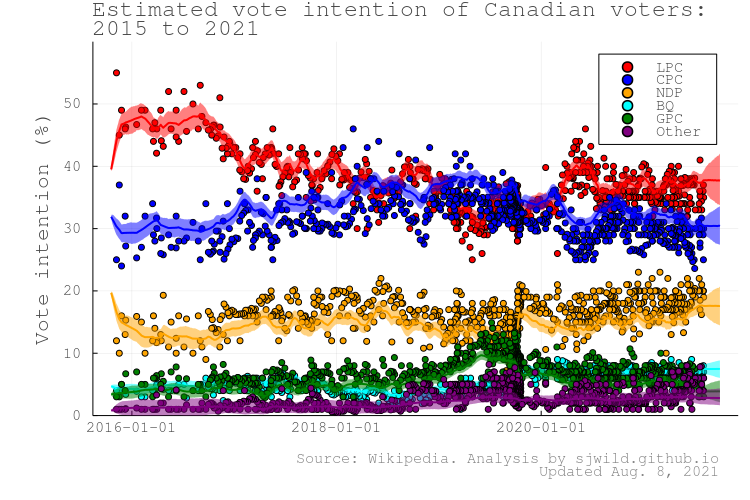
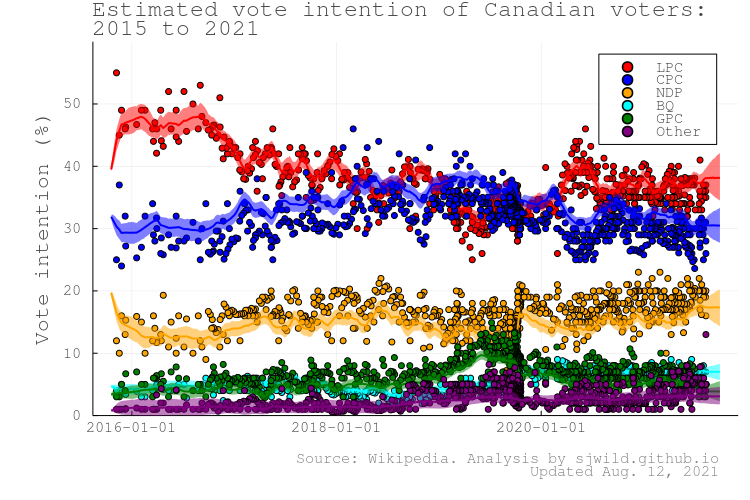
update Aug 12

diff --git a/README.md b/README.md
@@ -19,18 +19,20 @@ The Julia model is run using Turing.jl. The Turing model is coded using a differ
 The predictions for voting intention (that is, for the period after 2019-10-21, the date of 2019 Canadian election) assume that the polling errors are the same after the election as before it. That may or may not be true. I suspect that polling errors are correlated between periods.
 
 ## Vote intention
-As of August 8, 2021, these are the estimated vote shares based on Canadian polls up to August 3, 2021:
+As of August 12, 2021, these are the estimated vote shares based on Canadian polls up to August 11, 2021:
 
 |**Party**    | **Vote share**  | **95% bounds**     |
 |-------------|:---------------:|:------------------:|
-|**LPC**      | 37.8%           | (35.9%, 39.7%)     |
-|**CPC**      | 30.4%           | (28.9%, 31.9%)     |
-|**NDP**      | 17.6%           | (16.1%, 19.1%)     |
-|**BQ**       | 7.5%            | (6.7%, 8.2%)       |
-|**GPC**      | 3.9%            | (3.0%, 4.8%)       |
-|**Other**    | 2.8%            | (1.8%, 4.1%)       |
+|**LPC**      | 38.1%           | (36.6%, 39.7%)     |
+|**CPC**      | 30.5%           | (29.2%, 31.8%)     |
+|**NDP**      | 17.3%           | (16.0%, 18.7%)     |
+|**BQ**       | 7.0%            | (6.3%, 7.7%)       |
+|**GPC**      | 3.9%            | (3.1%, 4.7%)       |
+|**Other**    | 3.1%            | (1.9%, 4.3%)       |
 
+![alt text](https://github.com/sjwild/Canandian_Election_2021/raw/main/can_vote_intention_on_election_date.png "Density plot of estimated vote share per party.")
 
+Overall, vote intention has been relatively stable since the last federal election. There was a bump in support for the Liberal Party of Canada, but that increase in support has dropped. 
 
 ![alt text](https://github.com/sjwild/Canandian_Election_2021/raw/main/can_vote_intention_2019_2021.png "Vote share of Canadian parties from 2019 to 2021.")
 
@@ -40,7 +42,7 @@ As of August 8, 2021, these are the estimated vote shares based on Canadian poll
 
 
 ## House effects
-House effects vary, but in general firms tended to overestimate NDP and Green Party vote share while underestimating CPC and BQ vote share. 
+House effects vary, but in general firms tended to overestimate NDP and Green Party vote share while underestimating LPC, CPC, and BQ vote share. 
 
 ![alt text](https://github.com/sjwild/Canandian_Election_2021/raw/main/house_effects_pollsters.png "House effects of Canadian polling firms from 2015 to 2021.")
 
